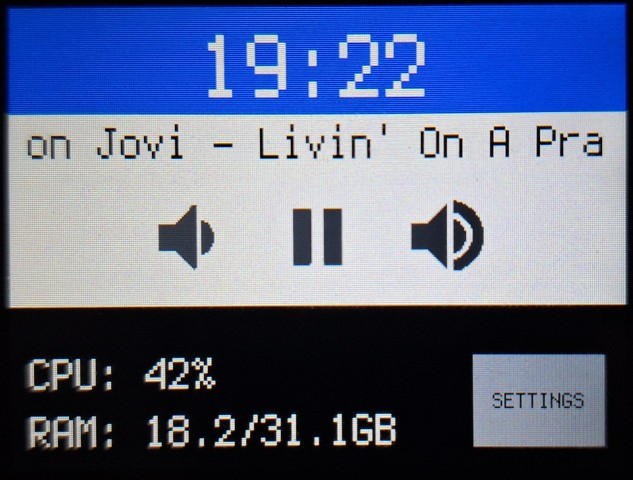
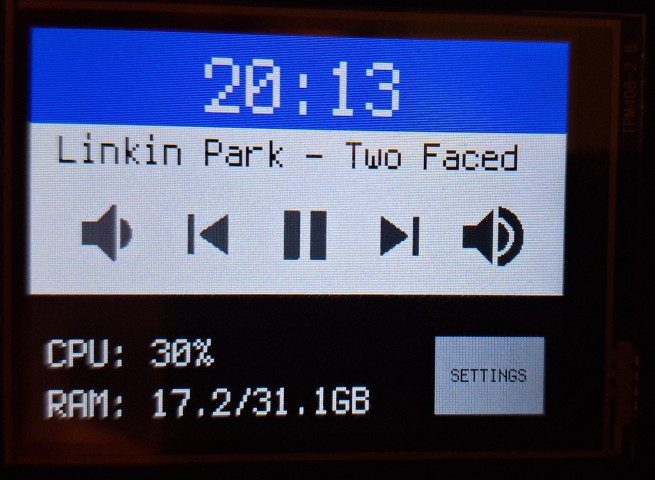
Prev/next song buttons

diff --git a/PicoClientScreen/main.py b/PicoClientScreen/main.py
@@ -23,10 +23,8 @@ import pwmio
 
 SHUTDOWN_BUTTON_TEXT = "SHUTDOWN"
 CONFIRMATION_TEXT = "SURE?"
-PLAY_TEXT = "PLAY"
-PAUSE_TEXT = "PAUSE"
 
-async def handle_touch(touch_context, page_layout, play_button, pause_button, vol_minus_button, vol_plus_button, shutdown_button, devmode_button, settings_button, back_button):
+async def handle_touch(touch_context, page_layout, play_button, pause_button, prev_button, next_button, vol_minus_button, vol_plus_button, shutdown_button, devmode_button, settings_button, back_button):
     cc = ConsumerControl(usb_hid.devices)
     shutdown_pressed = False
     while True:
@@ -47,6 +45,12 @@ async def handle_touch(touch_context, page_layout, play_button, pause_button, vo
                     if play_button.contains((touch_context.touchedY, touch_context.touchedX)) or pause_button.contains((touch_context.touchedY, touch_context.touchedX)):
                         print('play/pause')
                         cc.send(ConsumerControlCode.PLAY_PAUSE)
+                    elif prev_button.contains((touch_context.touchedY, touch_context.touchedX)):
+                        print('prev')
+                        cc.send(ConsumerControlCode.SCAN_PREVIOUS_TRACK)
+                    elif next_button.contains((touch_context.touchedY, touch_context.touchedX)):
+                        print('next')
+                        cc.send(ConsumerControlCode.SCAN_NEXT_TRACK)
                     elif vol_minus_button.contains((touch_context.touchedY, touch_context.touchedX)):
                         print('vol-')
                         cc.send(ConsumerControlCode.VOLUME_DECREMENT)
@@ -109,7 +113,7 @@ def duty_cycle_to_percent(duty_cycle):
 def percent_to_duty_cycle(percent):
     return int(percent / 100 * (2**16 - 1))
 
-async def render_display(page_layout, play_button, pause_button, vol_minus_button, vol_plus_button, shutdown_button, devmode_button, settings_button, back_button):
+async def render_display(page_layout, play_button, pause_button, prev_button, next_button, vol_minus_button, vol_plus_button, shutdown_button, devmode_button, settings_button, back_button):
     displayio.release_displays()
 
     pwm = pwmio.PWMOut(TFT_LED)
@@ -169,6 +173,8 @@ async def render_display(page_layout, play_button, pause_button, vol_minus_butto
     main_group.append(text_group)
     main_group.append(play_button)
     main_group.append(pause_button)
+    main_group.append(prev_button)
+    main_group.append(next_button)
     main_group.append(vol_minus_button)
     main_group.append(vol_plus_button)
     main_group.append(settings_button)
@@ -193,7 +199,15 @@ async def render_display(page_layout, play_button, pause_button, vol_minus_butto
                         main_group.remove(play_button)
                     if pause_button in main_group:
                         main_group.remove(pause_button)
+                    if prev_button in main_group:
+                        main_group.remove(prev_button)
+                    if next_button in main_group:
+                        main_group.remove(next_button)
                 else:
+                    if prev_button not in main_group:
+                        main_group.append(prev_button)
+                    if next_button not in main_group:
+                        main_group.append(next_button)
                     if is_playing:
                         if play_button in main_group:
                             main_group.remove(play_button)
@@ -294,8 +308,10 @@ async def main():
 
     play_button = create_sprite_button(136, 95, "play")
     pause_button = create_sprite_button(136, 95, "pause")
-    vol_minus_button = create_sprite_button(68, 95, "volume_down")
-    vol_plus_button = create_sprite_button(204, 95, "volume_up")
+    prev_button = create_sprite_button(78, 95, "previous")
+    next_button = create_sprite_button(194, 95, "next")
+    vol_minus_button = create_sprite_button(20, 95, "volume_down")
+    vol_plus_button = create_sprite_button(252, 95, "volume_up")
     settings_button = create_text_button(240, 180, "SETTINGS")
 
     shutdown_button = create_text_button(135, 90, SHUTDOWN_BUTTON_TEXT)
@@ -303,8 +319,8 @@ async def main():
     devmode_text = "DEVMODE OFF" if dev_mode_enabled() else "DEVMODE ON"
     devmode_button = create_text_button(135, 10, devmode_text)
 
-    handle_touch_task = asyncio.create_task(handle_touch(touch_context, page_layout, play_button, pause_button, vol_minus_button, vol_plus_button, shutdown_button, devmode_button, settings_button, back_button))
-    render_display_task = asyncio.create_task(render_display(page_layout, play_button, pause_button, vol_minus_button, vol_plus_button, shutdown_button, devmode_button, settings_button, back_button))
+    handle_touch_task = asyncio.create_task(handle_touch(touch_context, page_layout, play_button, pause_button, prev_button, next_button, vol_minus_button, vol_plus_button, shutdown_button, devmode_button, settings_button, back_button))
+    render_display_task = asyncio.create_task(render_display(page_layout, play_button, pause_button, prev_button, next_button, vol_minus_button, vol_plus_button, shutdown_button, devmode_button, settings_button, back_button))
     await asyncio.gather(handle_touch_task, render_display_task)
 
 asyncio.run(main())

diff --git a/README.md b/README.md
@@ -20,7 +20,7 @@ Components are connected using USB CDC serial port
 - Clock
 - Currently played music/other media
 - CPU and RAM usage
-- Media buttons: Play/Pause, Volume up/down
+- Media buttons: Play/Pause, Prev/next song, Volume up/down
 - Shutdown computer button
 - Settings
     - TFT screen brightness adjustment
